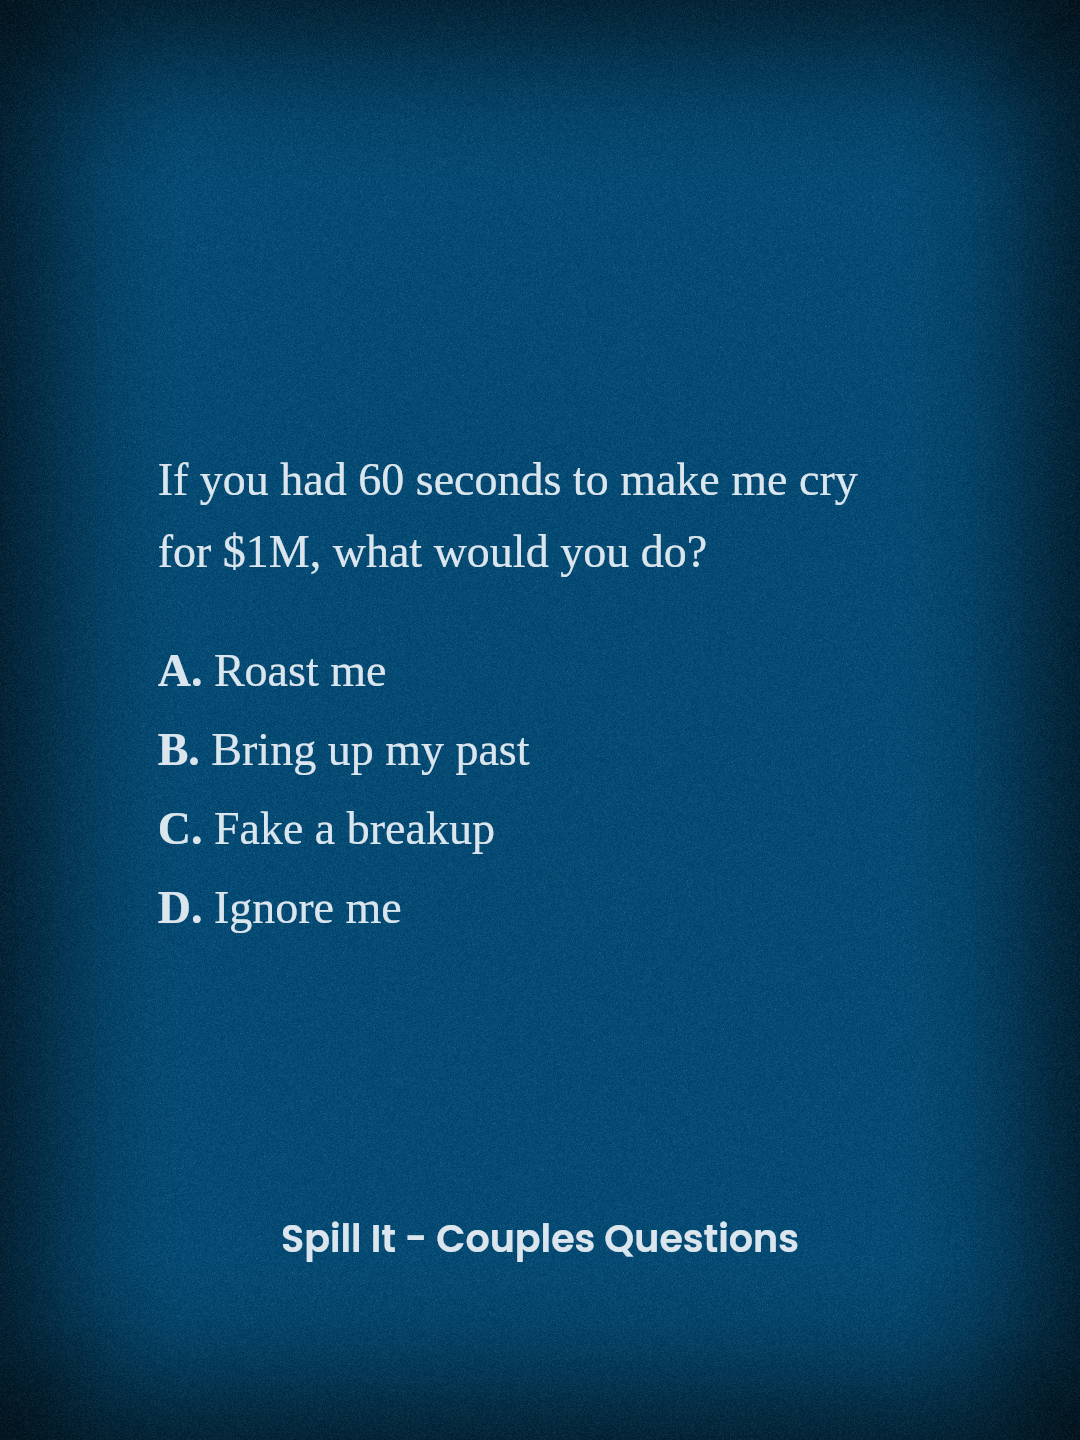
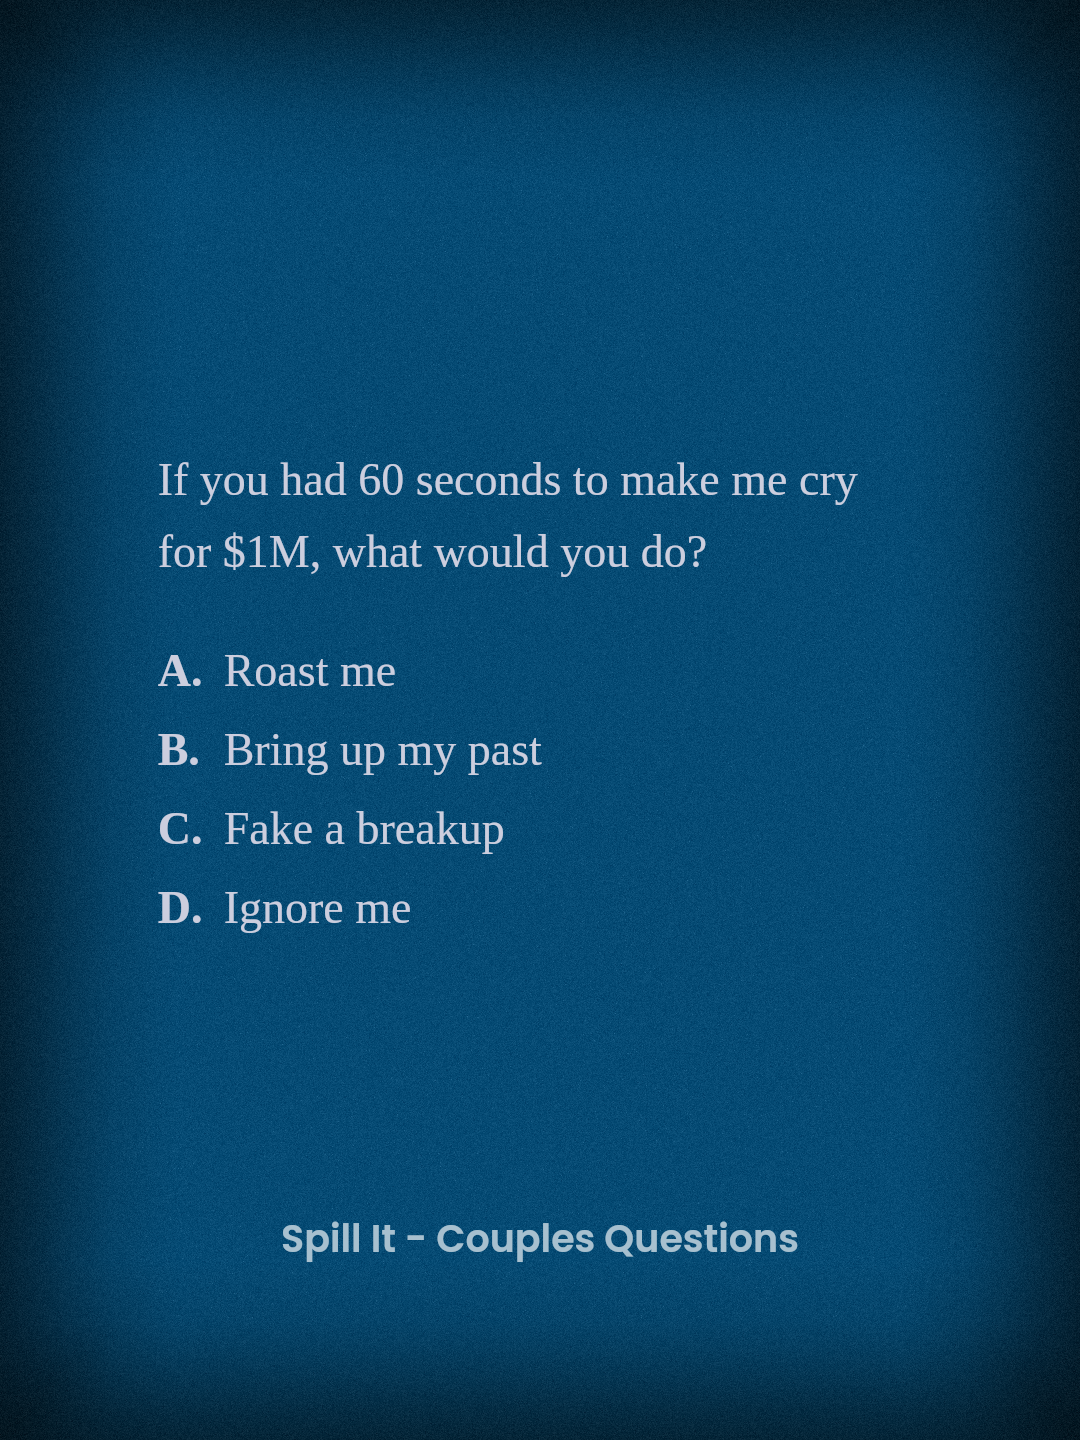
Match template 20 text colour and option tab.
Question and option ink is the reference grey-lavender, cover and footer keep their own measured tones, and option words share one fixed column.

diff --git a/app/lib/image-template-20-ocean.ts b/app/lib/image-template-20-ocean.ts
@@ -19,8 +19,15 @@ export const IMAGE_TEMPLATE20_SLIDE_COUNT = IMAGE_TEMPLATE20_QUESTION_COUNT + 1;
 export const IMAGE_TEMPLATE20_CTA_TAB = IMAGE_TEMPLATE20_QUESTION_COUNT;
 export const IMAGE_TEMPLATE20_COVER_SRC = '/image-templates/template-20-cover.jpg';
 
-/** Cool off-white. Cover stroke interiors on the reference sit near rgb(218, 229, 237). */
-export const IMAGE_TEMPLATE20_TEXT = '#DAE5ED';
+/**
+ * Question and option ink. Brightest reference pixels sit near rgb(204, 206, 222):
+ * a soft grey with a cool lavender cast, not pure white.
+ */
+export const IMAGE_TEMPLATE20_TEXT = '#CCCEDE';
+/** Bold cover and CTA headline. Stroke interiors measure about rgb(218, 228, 235). */
+export const IMAGE_TEMPLATE20_COVER_TEXT = '#DAE4EB';
+/** Footer. Stroke interiors measure about rgb(167, 192, 207), dimmer than the body. */
+export const IMAGE_TEMPLATE20_FOOTER_TEXT = '#A7C0CF';
 export const IMAGE_TEMPLATE20_FONT_STACK =
   '"Liberation Serif", "Times New Roman", Times, serif';
 export const IMAGE_TEMPLATE20_FOOTER_FONT_STACK =
@@ -78,6 +85,12 @@ export const IMAGE_TEMPLATE20_TEXT_WIDTH = 0.7;
 export const IMAGE_TEMPLATE20_QUESTION_TOP = 0.322;
 /** Extra air between the question and the first option, in ems. */
 export const IMAGE_TEMPLATE20_OPTION_GAP = 1.02;
+/**
+ * Option words share one column. On the reference, "Roast me" / "Bring up my past"
+ * / "Fake break up" / "Ignore me" all start 132px right of the letter at 2160
+ * wide, which is 66px at the 1080 export.
+ */
+export const IMAGE_TEMPLATE20_OPTION_TAB = 66 / 1080;
 
 export const IMAGE_TEMPLATE20_FOOTER_SIZE = 0.0352;
 export const IMAGE_TEMPLATE20_FOOTER_Y = 0.862;
@@ -302,6 +315,7 @@ function paintCover(
     if ((lines.length <= 4 && block <= height * 0.42) || fontSize <= minSize) break;
     fontSize = Math.max(minSize, fontSize - 2);
   }
+  ctx.fillStyle = IMAGE_TEMPLATE20_COVER_TEXT;
   ctx.font = `700 ${fontSize}px ${fontFamily}`;
   const ascent = inkAscent(ctx, 'H');
   const descent = inkDescent(ctx, 'Hgy');
@@ -320,7 +334,7 @@ function paintFooter(
 ) {
   const fontSize = Math.round(width * IMAGE_TEMPLATE20_FOOTER_SIZE);
   ctx.font = `600 ${fontSize}px ${footerFontFamily}`;
-  ctx.fillStyle = IMAGE_TEMPLATE20_TEXT;
+  ctx.fillStyle = IMAGE_TEMPLATE20_FOOTER_TEXT;
   ctx.textAlign = 'center';
   ctx.textBaseline = 'alphabetic';
   const box = ctx.measureText(IMAGE_TEMPLATE20_FOOTER);
@@ -369,7 +383,7 @@ function paintCta(
   if (layout) paintQuestionLines(ctx, width, layout);
 
   ctx.font = `700 ${labelSize}px ${fontFamily}`;
-  ctx.fillStyle = IMAGE_TEMPLATE20_TEXT;
+  ctx.fillStyle = IMAGE_TEMPLATE20_COVER_TEXT;
   ctx.textAlign = 'center';
   ctx.textBaseline = 'alphabetic';
   ctx.fillText(IMAGE_TEMPLATE20_CTA_LABEL, width / 2, promoY - labelGap - labelDescent);
@@ -411,7 +425,7 @@ function layoutQuestion(
   const descent = inkDescent(ctx);
   let optionLines = 0;
   for (const option of parsed) {
-    optionLines += countOptionLines(ctx, option, fontSize, fontFamily, maxWidth);
+    optionLines += countOptionLines(ctx, option, fontSize, fontFamily, width, maxWidth);
   }
   const optionGap = optionLines && questionLines.length ? fontSize * IMAGE_TEMPLATE20_OPTION_GAP : 0;
   const firstBaseline = inkTop + ascent;
@@ -446,16 +460,15 @@ function countOptionLines(
   option: OptionLine,
   fontSize: number,
   fontFamily: string,
+  frameWidth: number,
   maxWidth: number
 ): number {
   if (!option.letter) {
     ctx.font = `400 ${fontSize}px ${fontFamily}`;
     return Math.max(1, wrapLines(ctx, option.text, maxWidth).length);
   }
-  ctx.font = `700 ${fontSize}px ${fontFamily}`;
-  const markWidth = ctx.measureText(`${option.letter}.`).width;
   ctx.font = `400 ${fontSize}px ${fontFamily}`;
-  const avail = Math.max(1, maxWidth - markWidth - ctx.measureText(' ').width);
+  const avail = Math.max(1, maxWidth - frameWidth * IMAGE_TEMPLATE20_OPTION_TAB);
   const wrapped = option.text.trim() ? wrapLines(ctx, option.text, avail) : [''];
   return Math.max(1, wrapped.length);
 }
@@ -546,7 +559,6 @@ function paintQuestionLines(
   width: number,
   layout: QuestionLayout
 ) {
-  void width;
   ctx.fillStyle = IMAGE_TEMPLATE20_TEXT;
   ctx.textAlign = 'left';
   ctx.textBaseline = 'alphabetic';
@@ -571,10 +583,8 @@ function paintQuestionLines(
     const mark = `${option.letter}.`;
     ctx.font = `700 ${layout.fontSize}px ${layout.fontFamily}`;
     ctx.fillText(mark, layout.x, y);
-    const markWidth = ctx.measureText(mark).width;
+    const textX = layout.x + width * IMAGE_TEMPLATE20_OPTION_TAB;
     ctx.font = `400 ${layout.fontSize}px ${layout.fontFamily}`;
-    const space = ctx.measureText(' ').width;
-    const textX = layout.x + markWidth + space;
     const avail = Math.max(1, layout.x + layout.maxWidth - textX);
     const wrapped = option.text.trim() ? wrapLines(ctx, option.text, avail) : [''];
     wrapped.forEach((line, index) => {
